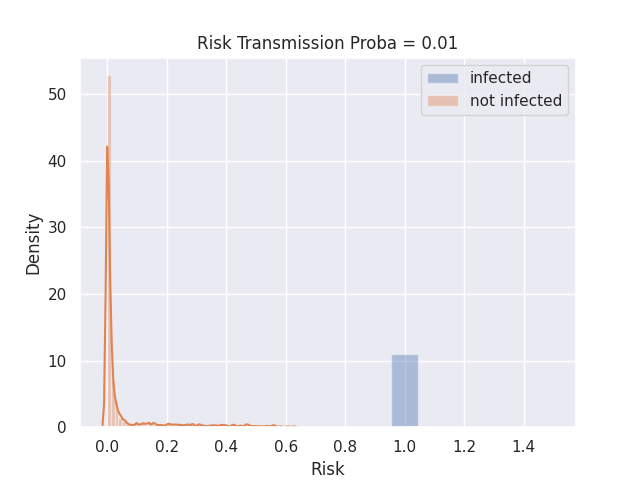
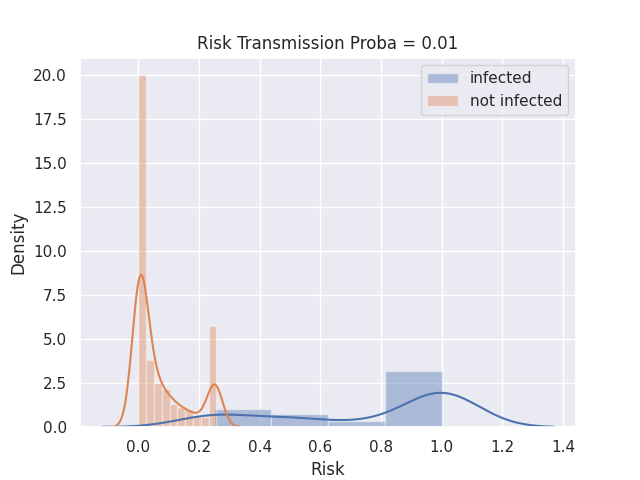
fixed the bugs!

diff --git a/simulator.py b/simulator.py
@@ -112,7 +112,6 @@ class Human(object):
 
         # risk
         self.risk = 0
-        self.update_initial_risk()
         self.contact_history = {}
 
         # habits
@@ -210,32 +209,30 @@ class Human(object):
             self._uid = bitarray()
             self._uid.extend(self.rng.choice([True, False], 4)) # generate a random 4-bit code
 
-    def update_initial_risk(self):
-        # TODO: ask tegan to check this
-        if self.infection_timestamp:
-            sickness_day = (self.env.timestamp - self.infection_timestamp).days
-            if sickness_day < len(self.all_symptoms_array)-1 and sickness_day > -1:
-                symptoms = self.all_symptoms_array[sickness_day] if RISK_WITH_TRUE_SYMPTOMS else self.reported_symptoms
+    def risk_for_symptoms(self):
+        sickness_day = (self.env.timestamp - self.infection_timestamp).days
+        symptoms = []
+        for day in range(sickness_day + 1):
+            if RISK_WITH_TRUE_SYMPTOMS and self.rng.rand() < self.carefullness:
+                    symptoms.extend(self.all_symptoms_array[day-1])
             else:
-                symptoms = []
-        else:
-            symptoms = []
+                symptoms.extend(self.all_symptoms_array[day-1])
         if self.test_results == 'positive':
-            self.risk += 1
-        elif symptoms == []:
-            self.risk += 0
+            return 1
         elif 'severe' in symptoms:
-            self.risk += 0.75
+            return 0.75
         elif 'moderate' in symptoms:
-            self.risk += 0.5
+            return 0.5
         elif 'mild' in symptoms:
-            self.risk += 0.25
+            return 0.25
         else:
-            raise ValueError(f"Invalid symptom: {symptoms}")
-        if CLIP_RISK:
-            self.risk = min(self.risk, 1.)
+            return 0
+
 
     def update_risk(self, other):
+        if self.infection_timestamp and (self.env.timestamp - self.infection_timestamp).days >= 0 and (self.env.timestamp - self.infection_timestamp).days <= len(self.all_symptoms_array)-1:
+            self.risk = self.risk_for_symptoms()
+
         m_risk = binary_to_float("".join([str(x) for x in np.array(other[1].tolist()).astype(int)]), 0, 4)
         m_uid = other[0]
 

diff --git a/contact_tracing.py b/contact_tracing.py
@@ -31,8 +31,8 @@ if __name__ == "__main__":
     hd = {}
     for human in humans:
         try:
-            print(human.name)
             human.infection_timestamp = datetime.datetime.strptime(human.infection_timestamp, '%Y-%m-%d %H:%M:%S')
+            print(human.name)
         except Exception:
             human.infection_timestamp = None
 
@@ -41,6 +41,7 @@ if __name__ == "__main__":
         human.env = env
         human.rng = np.random.RandomState(0)
         human.update_uid()
+
         hd[human.name] = human
 
     i = 0
@@ -60,9 +61,11 @@ if __name__ == "__main__":
         this_human.pending_messages.append(other_human.cur_message(now))
 
         if this_human.cur_day != now.day:
-            this_human.update_initial_risk()
+            # this_human.update_initial_risk()
             this_human.cur_day = now.day
             this_human.update_uid()
+            # if this_human.risk != 0:
+            #     import pdb; pdb.set_trace()
             for j in range(len(this_human.pending_messages)):
                 m_j = this_human.pending_messages.pop()
                 quantized_risk = binary_to_float("".join([str(x) for x in np.array(m_j[1].tolist()).astype(int)]), 0, 4)

diff --git a/config.py b/config.py
@@ -24,7 +24,7 @@ ASYMPTOMATIC_INFECTION_RATIO = 0.1 # &prob_infectious
 RISK_TRANSMISSION_PROBA = 0.01
 RISK_MODEL = 'yoshua'   # options: ['yoshua', 'lenka', 'eilif']
 RISK_WITH_TRUE_SYMPTOMS = False
-CLIP_RISK = True
+CLIP_RISK = False
 UPDATE_RISK_EVERY_DAY = True
 #                   0-9 10-19 20-29  30-39  40-49  50-59 60-69 70-79  80-  # Assuming dath rate to be same for 80 and above
 P_NEVER_RECOVERS = [0, 0.002, 0.002, 0.002, 0.004, 0.02, 0.04, 0.08, 0.15] # &never_recovers
